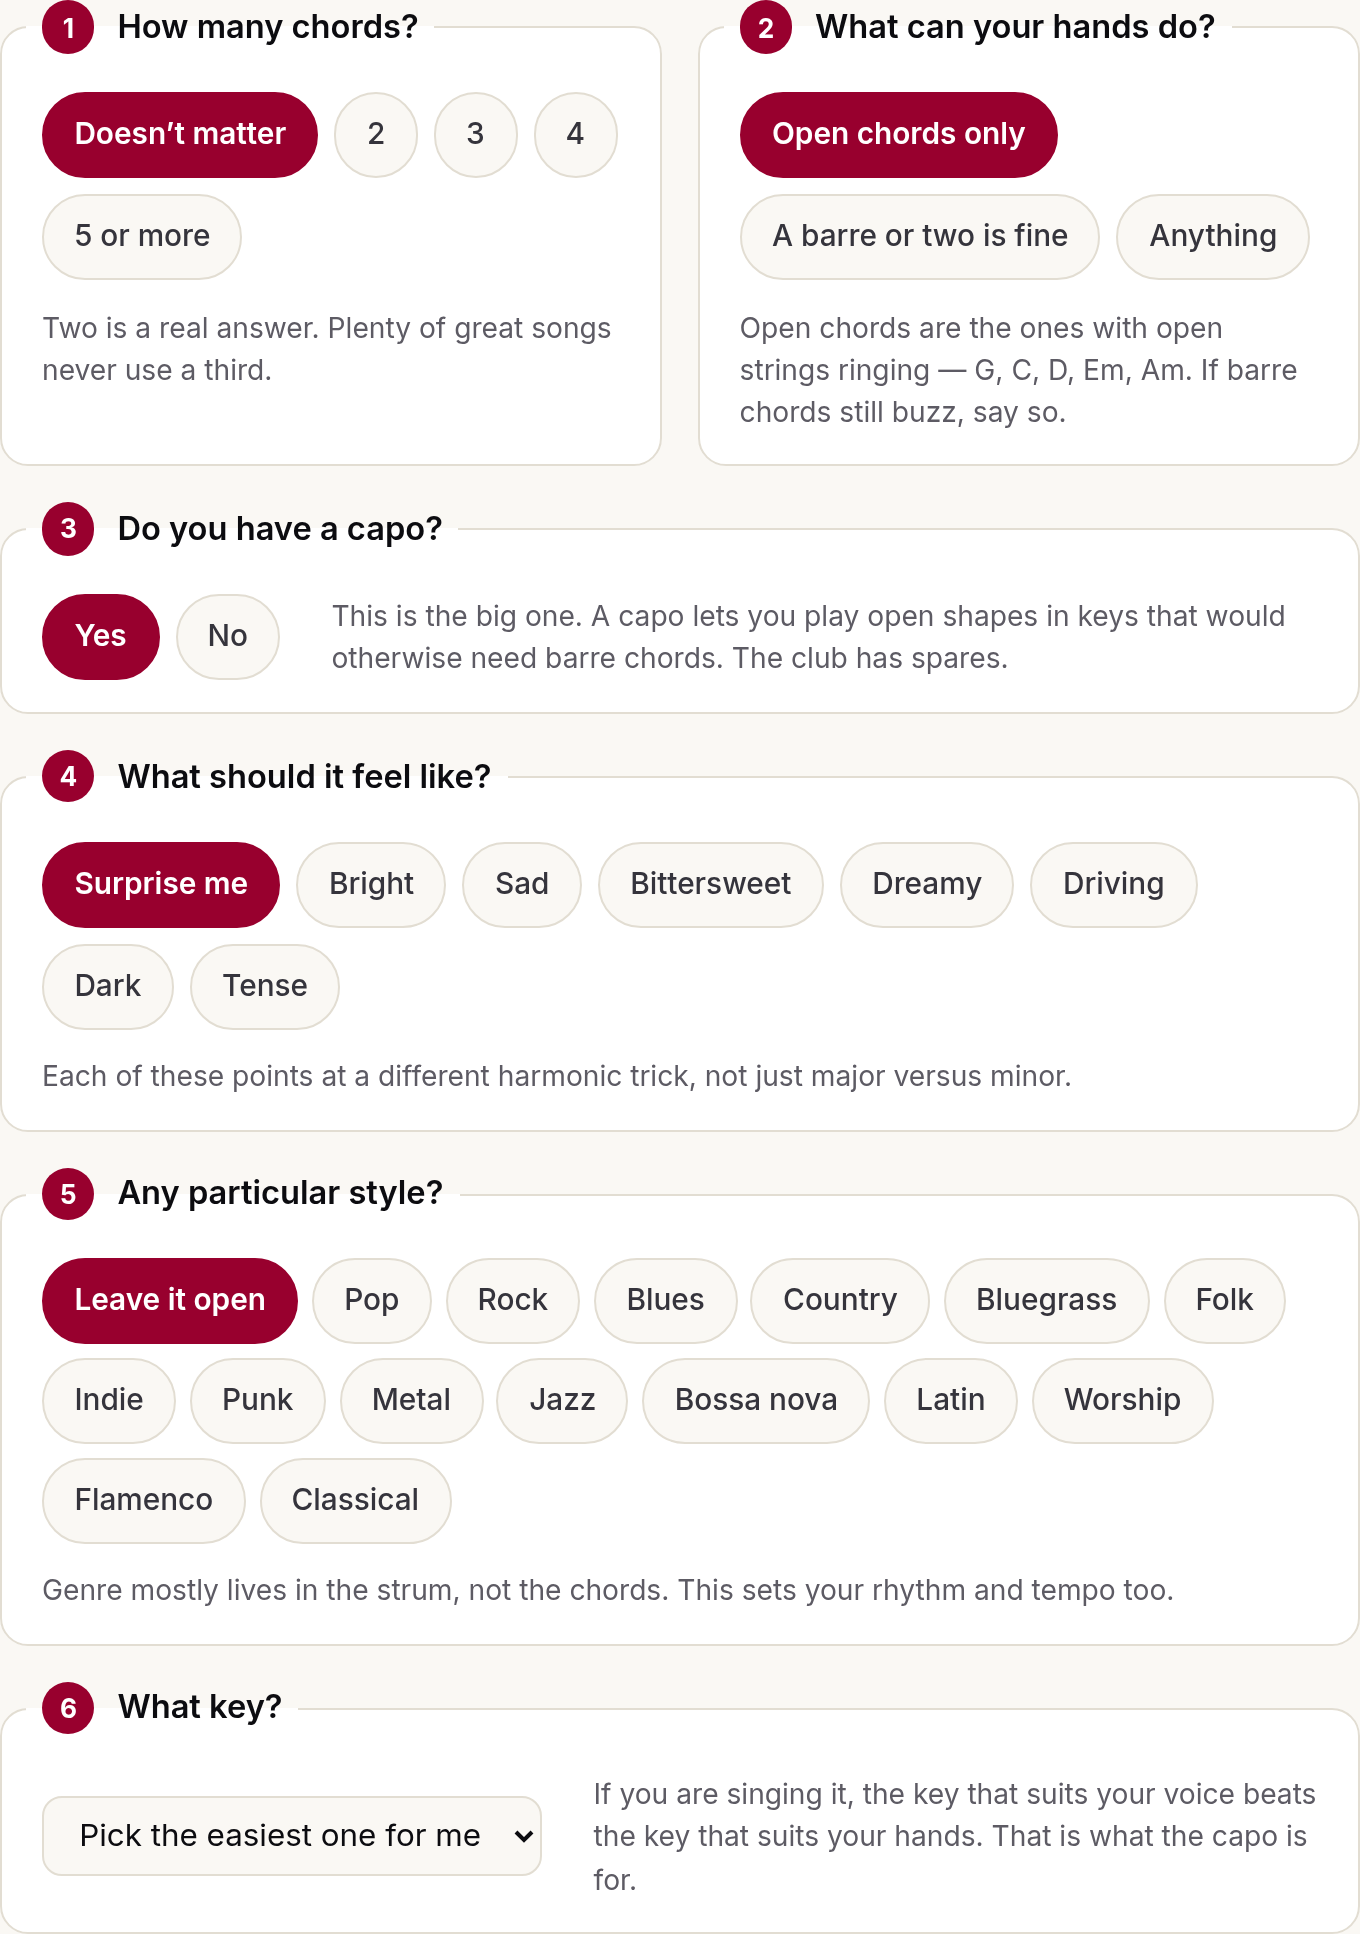
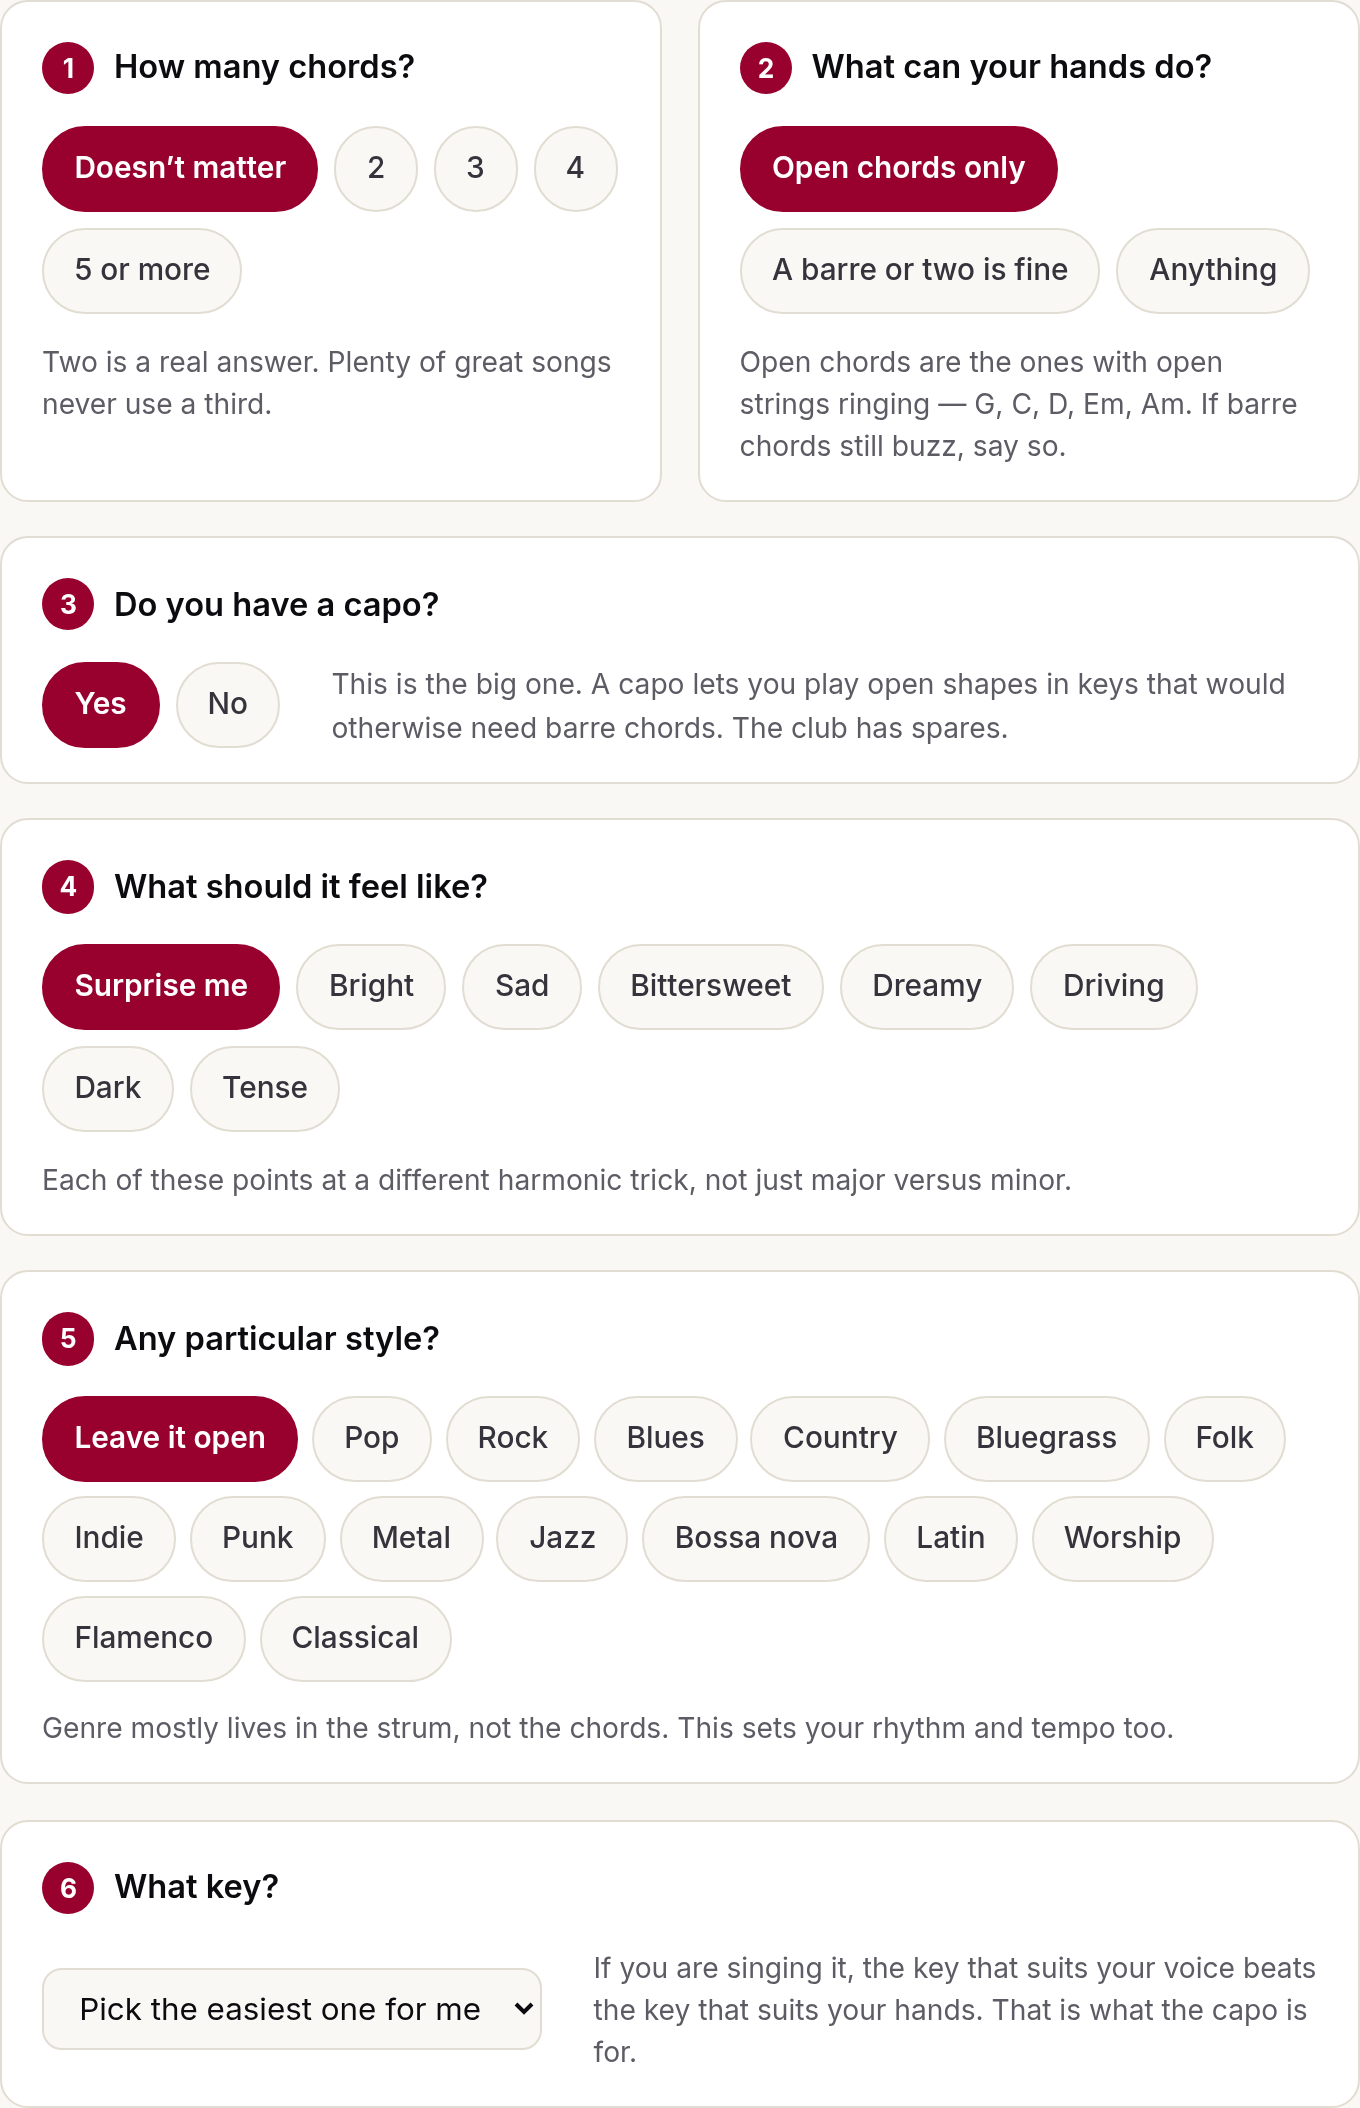
Add files via upload

diff --git a/progressions.html b/progressions.html
@@ -76,8 +76,8 @@
 
     <div class="qgrid mt3">
 
-      <fieldset class="q">
-        <legend><span class="q__n">1</span> How many chords?</legend>
+      <div class="q" role="group" aria-labelledby="q1-lg">
+        <p class="q__lg" id="q1-lg"><span class="q__n">1</span> How many chords?</p>
         <div class="opts" data-field="n">
           <button type="button" data-v="any" aria-pressed="true">Doesn’t matter</button>
           <button type="button" data-v="2" aria-pressed="false">2</button>
@@ -86,20 +86,20 @@
           <button type="button" data-v="5" aria-pressed="false">5 or more</button>
         </div>
         <p class="q__hint">Two is a real answer. Plenty of great songs never use a third.</p>
-      </fieldset>
+      </div>
 
-      <fieldset class="q">
-        <legend><span class="q__n">2</span> What can your hands do?</legend>
+      <div class="q" role="group" aria-labelledby="q2-lg">
+        <p class="q__lg" id="q2-lg"><span class="q__n">2</span> What can your hands do?</p>
         <div class="opts" data-field="skill">
           <button type="button" data-v="open" aria-pressed="true">Open chords only</button>
           <button type="button" data-v="some" aria-pressed="false">A barre or two is fine</button>
           <button type="button" data-v="any" aria-pressed="false">Anything</button>
         </div>
         <p class="q__hint">Open chords are the ones with open strings ringing — G, C, D, Em, Am. If barre chords still buzz, say so.</p>
-      </fieldset>
+      </div>
 
-      <fieldset class="q q--wide q--split">
-        <legend><span class="q__n">3</span> Do you have a capo?</legend>
+      <div class="q q--wide q--split" role="group" aria-labelledby="q3-lg">
+        <p class="q__lg" id="q3-lg"><span class="q__n">3</span> Do you have a capo?</p>
         <div class="q__body">
           <div class="opts" data-field="capo">
             <button type="button" data-v="yes" aria-pressed="true">Yes</button>
@@ -107,10 +107,10 @@
           </div>
           <p class="q__hint">This is the big one. A capo lets you play open shapes in keys that would otherwise need barre chords. The club has spares.</p>
         </div>
-      </fieldset>
+      </div>
 
-      <fieldset class="q q--wide">
-        <legend><span class="q__n">4</span> What should it feel like?</legend>
+      <div class="q q--wide" role="group" aria-labelledby="q4-lg">
+        <p class="q__lg" id="q4-lg"><span class="q__n">4</span> What should it feel like?</p>
         <div class="opts" data-field="mood">
           <button type="button" data-v="any" aria-pressed="true">Surprise me</button>
           <button type="button" data-v="bright">Bright</button>
@@ -122,10 +122,10 @@
           <button type="button" data-v="tense">Tense</button>
         </div>
         <p class="q__hint">Each of these points at a different harmonic trick, not just major versus minor.</p>
-      </fieldset>
+      </div>
 
-      <fieldset class="q q--wide">
-        <legend><span class="q__n">5</span> Any particular style?</legend>
+      <div class="q q--wide" role="group" aria-labelledby="q5-lg">
+        <p class="q__lg" id="q5-lg"><span class="q__n">5</span> Any particular style?</p>
         <div class="opts opts--wrap" data-field="genre">
           <button type="button" data-v="any" aria-pressed="true">Leave it open</button>
           <button type="button" data-v="pop">Pop</button>
@@ -145,10 +145,10 @@
           <button type="button" data-v="classical">Classical</button>
         </div>
         <p class="q__hint">Genre mostly lives in the strum, not the chords. This sets your rhythm and tempo too.</p>
-      </fieldset>
+      </div>
 
-      <fieldset class="q q--wide q--split">
-        <legend><span class="q__n">6</span> What key?</legend>
+      <div class="q q--wide q--split" role="group" aria-labelledby="q6-lg">
+        <p class="q__lg" id="q6-lg"><span class="q__n">6</span> What key?</p>
         <div class="q__body">
         <div class="q__sel">
           <label class="vh" for="pkey">Key</label>
@@ -170,7 +170,7 @@
         </div>
         <p class="q__hint">If you are singing it, the key that suits your voice beats the key that suits your hands. That is what the capo is for.</p>
         </div>
-      </fieldset>
+      </div>
 
     </div>
 

diff --git a/site.css b/site.css
@@ -869,18 +869,15 @@ body.no-scroll{ overflow:hidden; }
 /* ---- the questions ---- */
 .qgrid{ display:grid; gap:1.1rem; }
 .q{ border:1px solid var(--line); border-radius:14px; background:var(--surface);
-    padding:1.15rem 1.25rem 1rem; margin:0; }
-/* display:flex on a <legend> stops Chromium cutting the notch in the
-   fieldset border, so the border drew straight through the question text.
-   display:table keeps the notch; the horizontal padding widens it so the
-   border ends clear of the words, and the negative margin pulls the text
-   back into line with the card's padding. */
-.q > legend{ display:table; padding:0 .5rem; margin-left:-.5rem;
-             font-weight:600; font-size:1.02rem; color:var(--text-strong); }
-.q__n{ display:inline-grid; place-items:center; width:1.65rem; height:1.65rem;
+    padding:1.2rem 1.25rem 1.05rem; margin:0; }
+/* The question heading sits inside the card, not straddling its border.
+   (It used to be a <legend>, which browsers render in a notch cut through
+   the top border — the number badge ended up half in and half out.) */
+.q__lg{ display:flex; align-items:center; gap:.6rem; margin:0 0 .95rem;
+        font-weight:600; font-size:1.02rem; color:var(--text-strong); }
+.q__n{ display:grid; place-items:center; width:1.65rem; height:1.65rem; flex:none;
        border-radius:50%; background:var(--crimson); color:#fff;
-       font-size:.82rem; font-weight:700;
-       vertical-align:middle; margin-right:.45rem; position:relative; top:-1px; }
+       font-size:.82rem; font-weight:700; }
 .opts{ display:flex; flex-wrap:wrap; gap:.5rem; }
 .opts--wrap{ gap:.42rem; }
 .opts button{ font:inherit; font-size:.93rem; font-weight:500; cursor:pointer;
